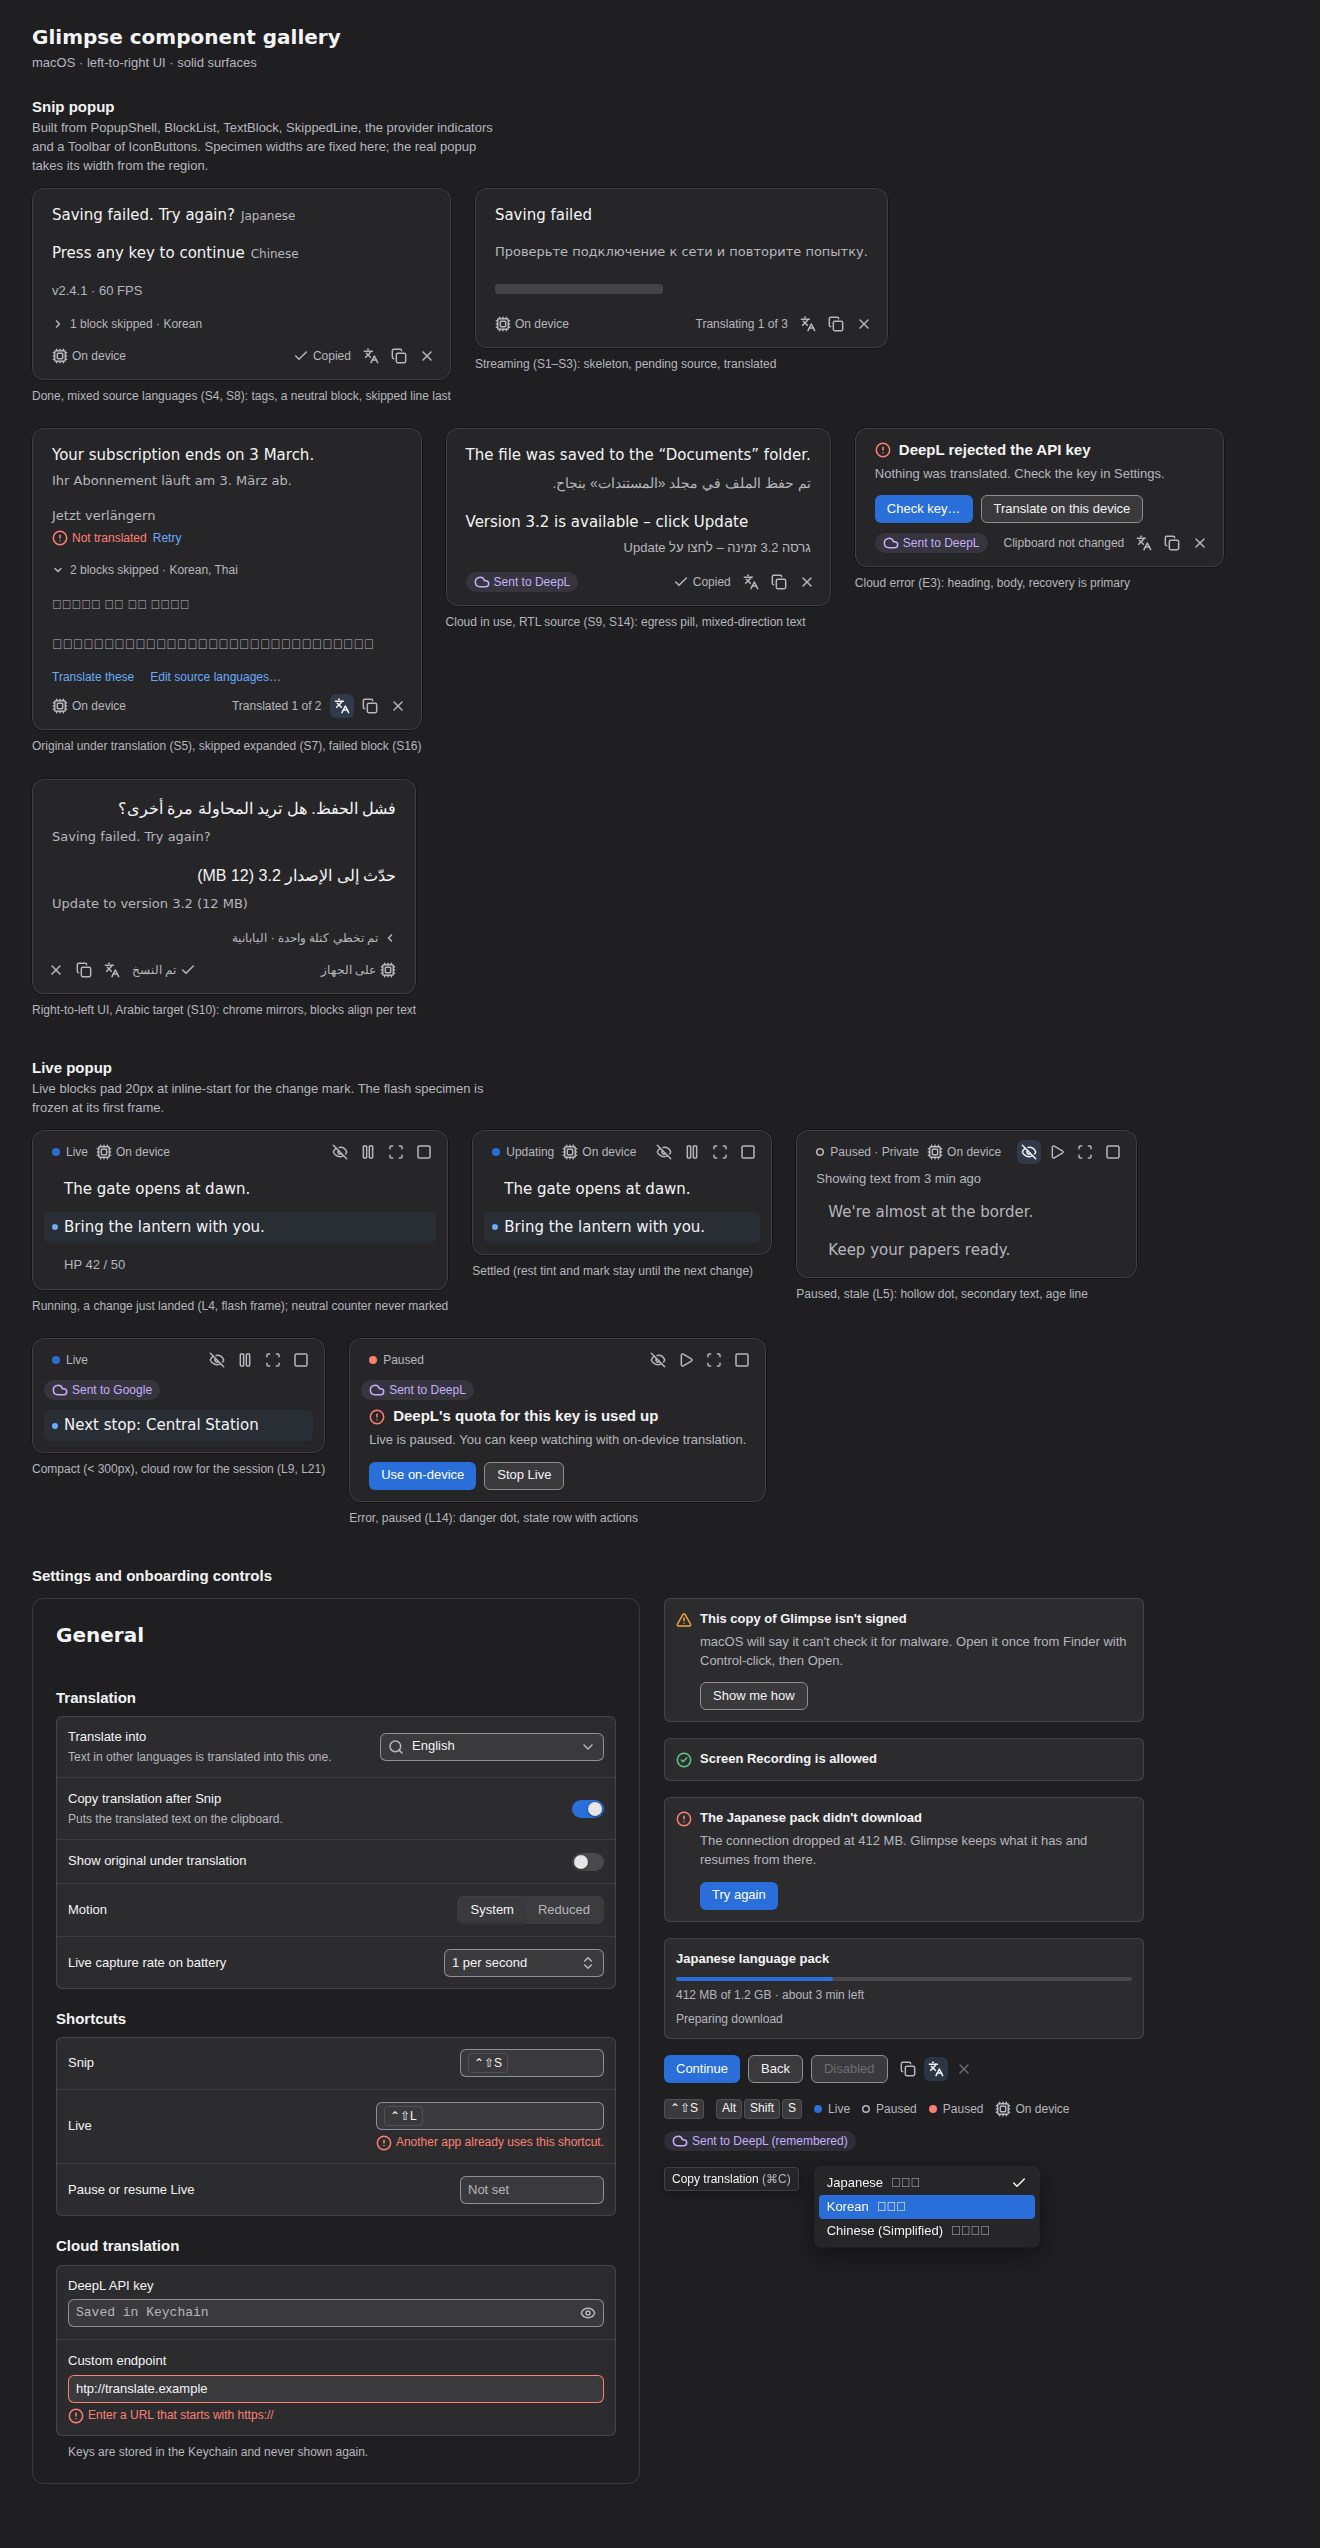
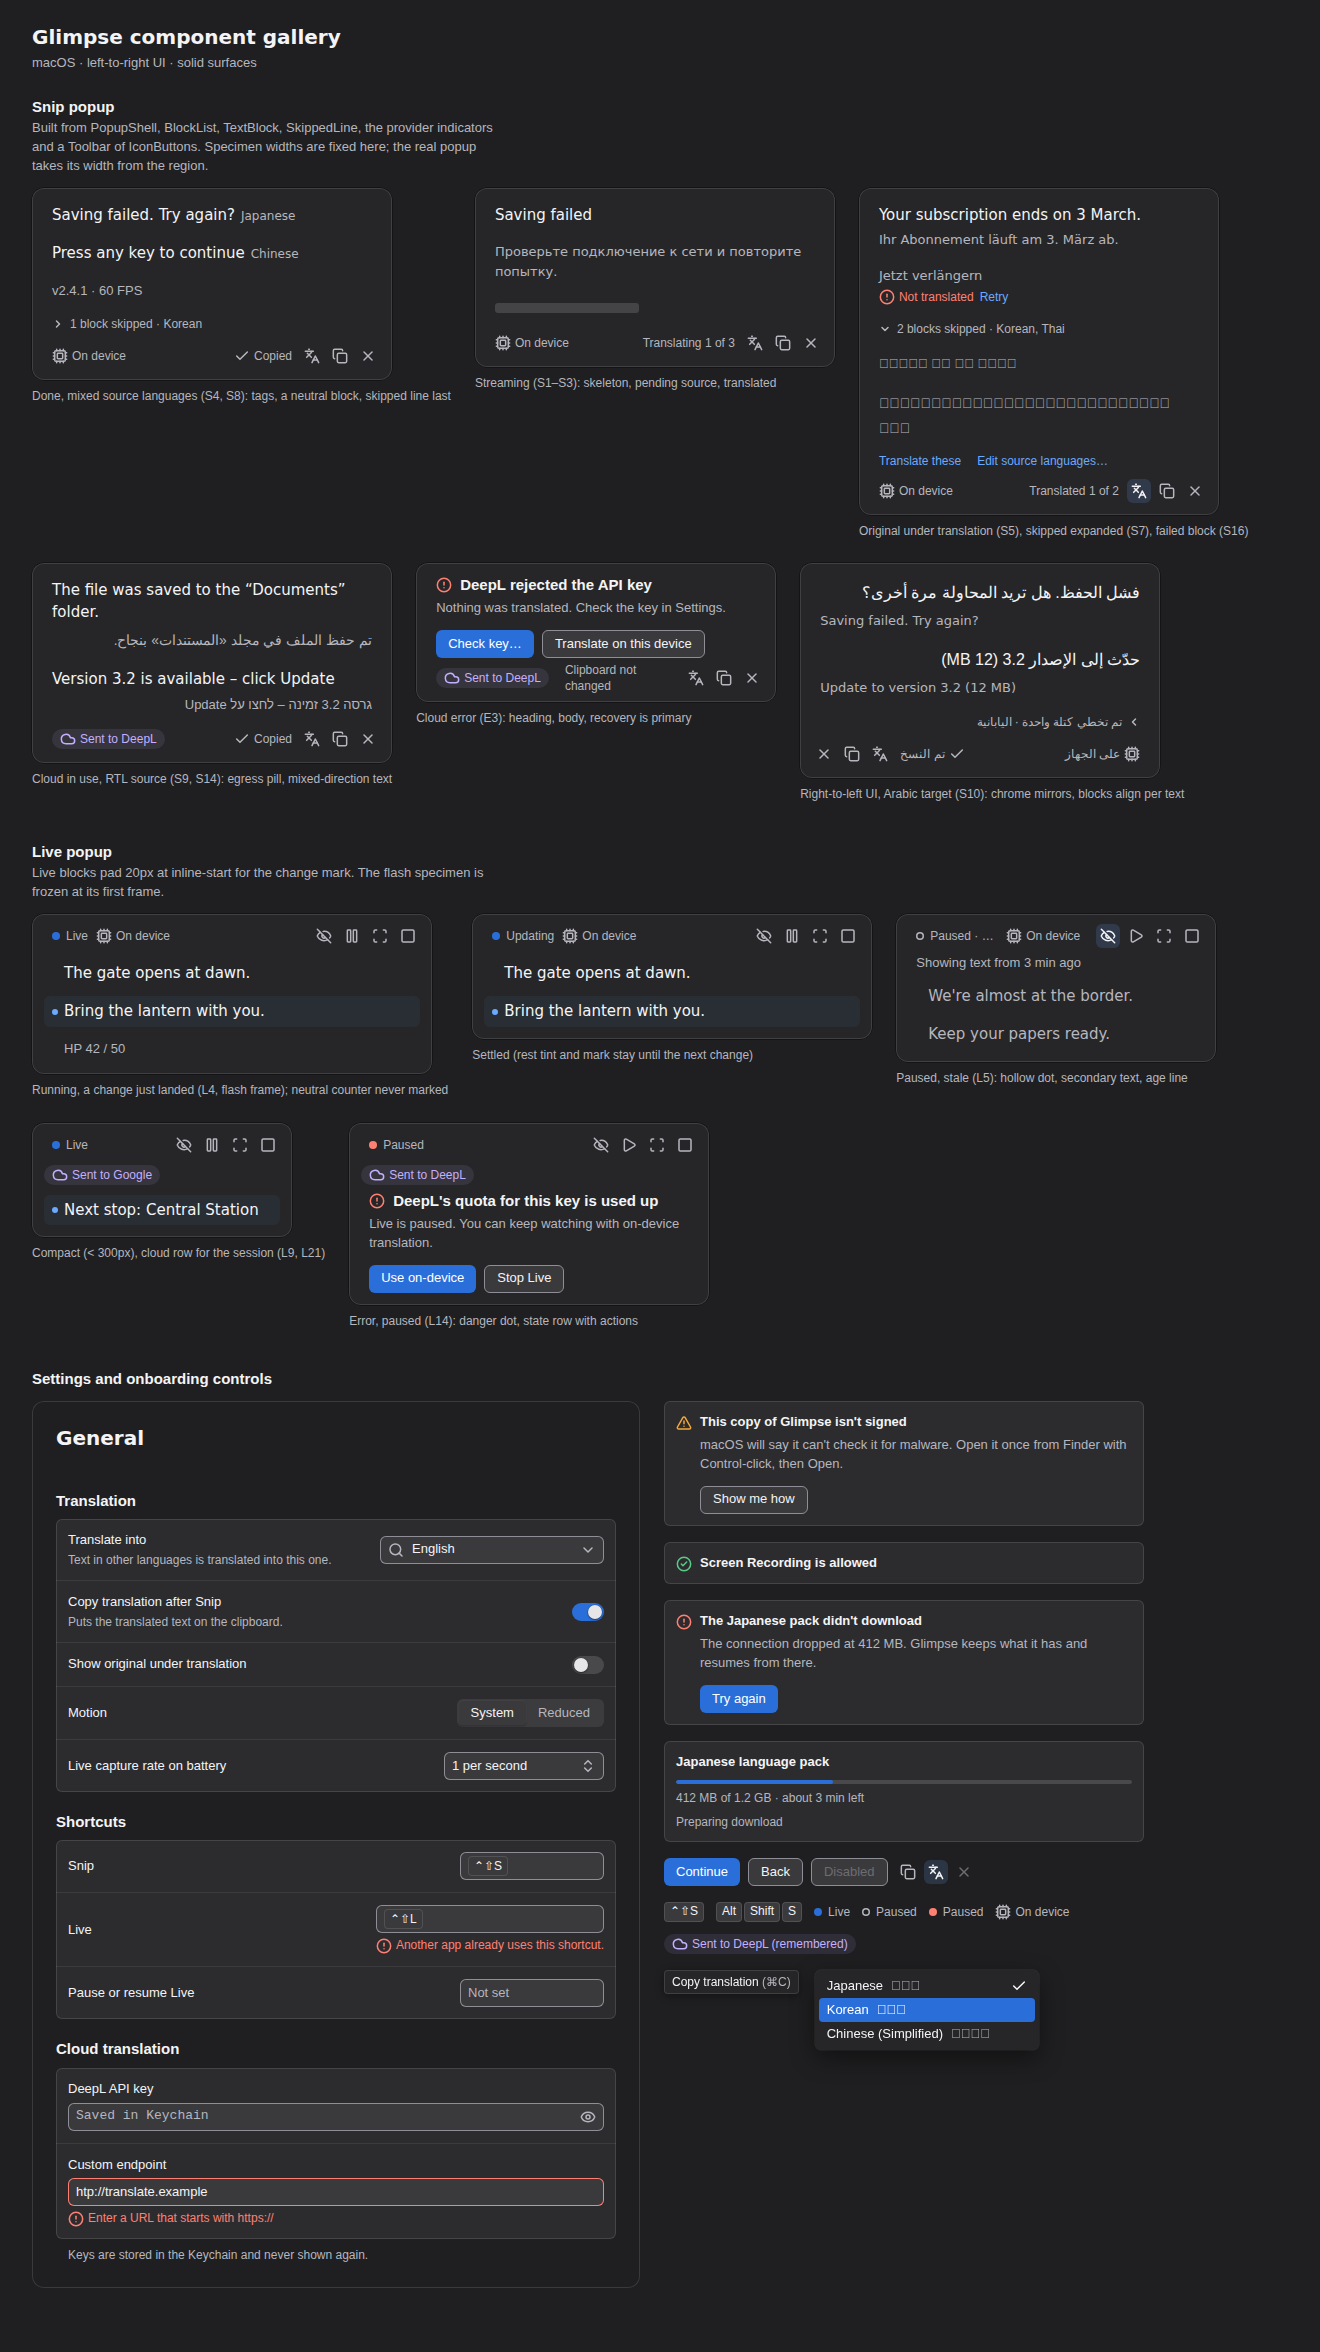
GLIM-42: PopupShell keeps the caller's inline styles
It replaced them with its transform-origin, so a popup's width was lost.
Gallery screenshots regenerated with the specimens at their intended widths.

diff --git a/packages/ui/test/components.test.tsx b/packages/ui/test/components.test.tsx
@@ -5,6 +5,7 @@ import { render } from "solid-js/web";
 import { BlockList } from "../src/components/BlockList.tsx";
 import { HotkeyRecorder } from "../src/components/HotkeyRecorder.tsx";
 import { IconButton } from "../src/components/IconButton.tsx";
+import { PopupShell } from "../src/components/PopupShell.tsx";
 import { ProgressBar } from "../src/components/ProgressBar.tsx";
 import { SkippedLine } from "../src/components/SkippedLine.tsx";
 import { Switch } from "../src/components/Switch.tsx";
@@ -255,6 +256,20 @@ describe("HotkeyRecorder", () => {
 		const msg = root.querySelector(".glim-inline-message");
 		expect(msg?.getAttribute("data-tone")).toBe("danger");
 		expect(field.getAttribute("aria-describedby")).toBe(msg?.id ?? "missing");
+	});
+});
+
+describe("PopupShell", () => {
+	test("keeps caller styles alongside its transform-origin; Snip is a modal dialog", () => {
+		const root = mount(() => (
+			<PopupShell kind="snip" facing="inline-start" dir="rtl" aria-label="Translation" style={{ width: "22.5rem" }} />
+		));
+		const el = root.firstElementChild as HTMLElement;
+		expect(el.style.width).toBe("22.5rem");
+		expect(el.style.transformOrigin).toBe("right center");
+		expect(el.getAttribute("role")).toBe("dialog");
+		expect(el.getAttribute("aria-modal")).toBe("true");
+		expect(el.getAttribute("dir")).toBe("rtl");
 	});
 });
 

diff --git a/packages/ui/src/components/PopupShell.tsx b/packages/ui/src/components/PopupShell.tsx
@@ -5,7 +5,9 @@ export type PopupKind = "snip" | "live";
 /** The popup's edge that faces the region; the enter animation grows from it. */
 export type PopupFacing = "top" | "bottom" | "inline-start" | "inline-end";
 
-export interface PopupShellProps extends JSX.HTMLAttributes<HTMLDivElement> {
+export interface PopupShellProps extends Omit<JSX.HTMLAttributes<HTMLDivElement>, "style"> {
+	/** Extra inline styles (the shell adds its transform-origin). */
+	style?: JSX.CSSProperties;
 	kind: PopupKind;
 	/** UI direction for the chrome; block text sets its own. */
 	dir?: Direction;
@@ -46,7 +48,10 @@ export function PopupShell(props: PopupShellProps): JSX.Element {
 			data-kind={local.kind}
 			data-entering={local.entering ? "" : undefined}
 			class={["glim-popup", local.class ?? ""].join(" ").trim()}
-			style={{ "transform-origin": origin(local.facing ?? "top", dir()) }}
+			style={{
+				...(typeof local.style === "object" ? local.style : {}),
+				"transform-origin": origin(local.facing ?? "top", dir()),
+			}}
 			{...rest}
 		>
 			{local.children}
